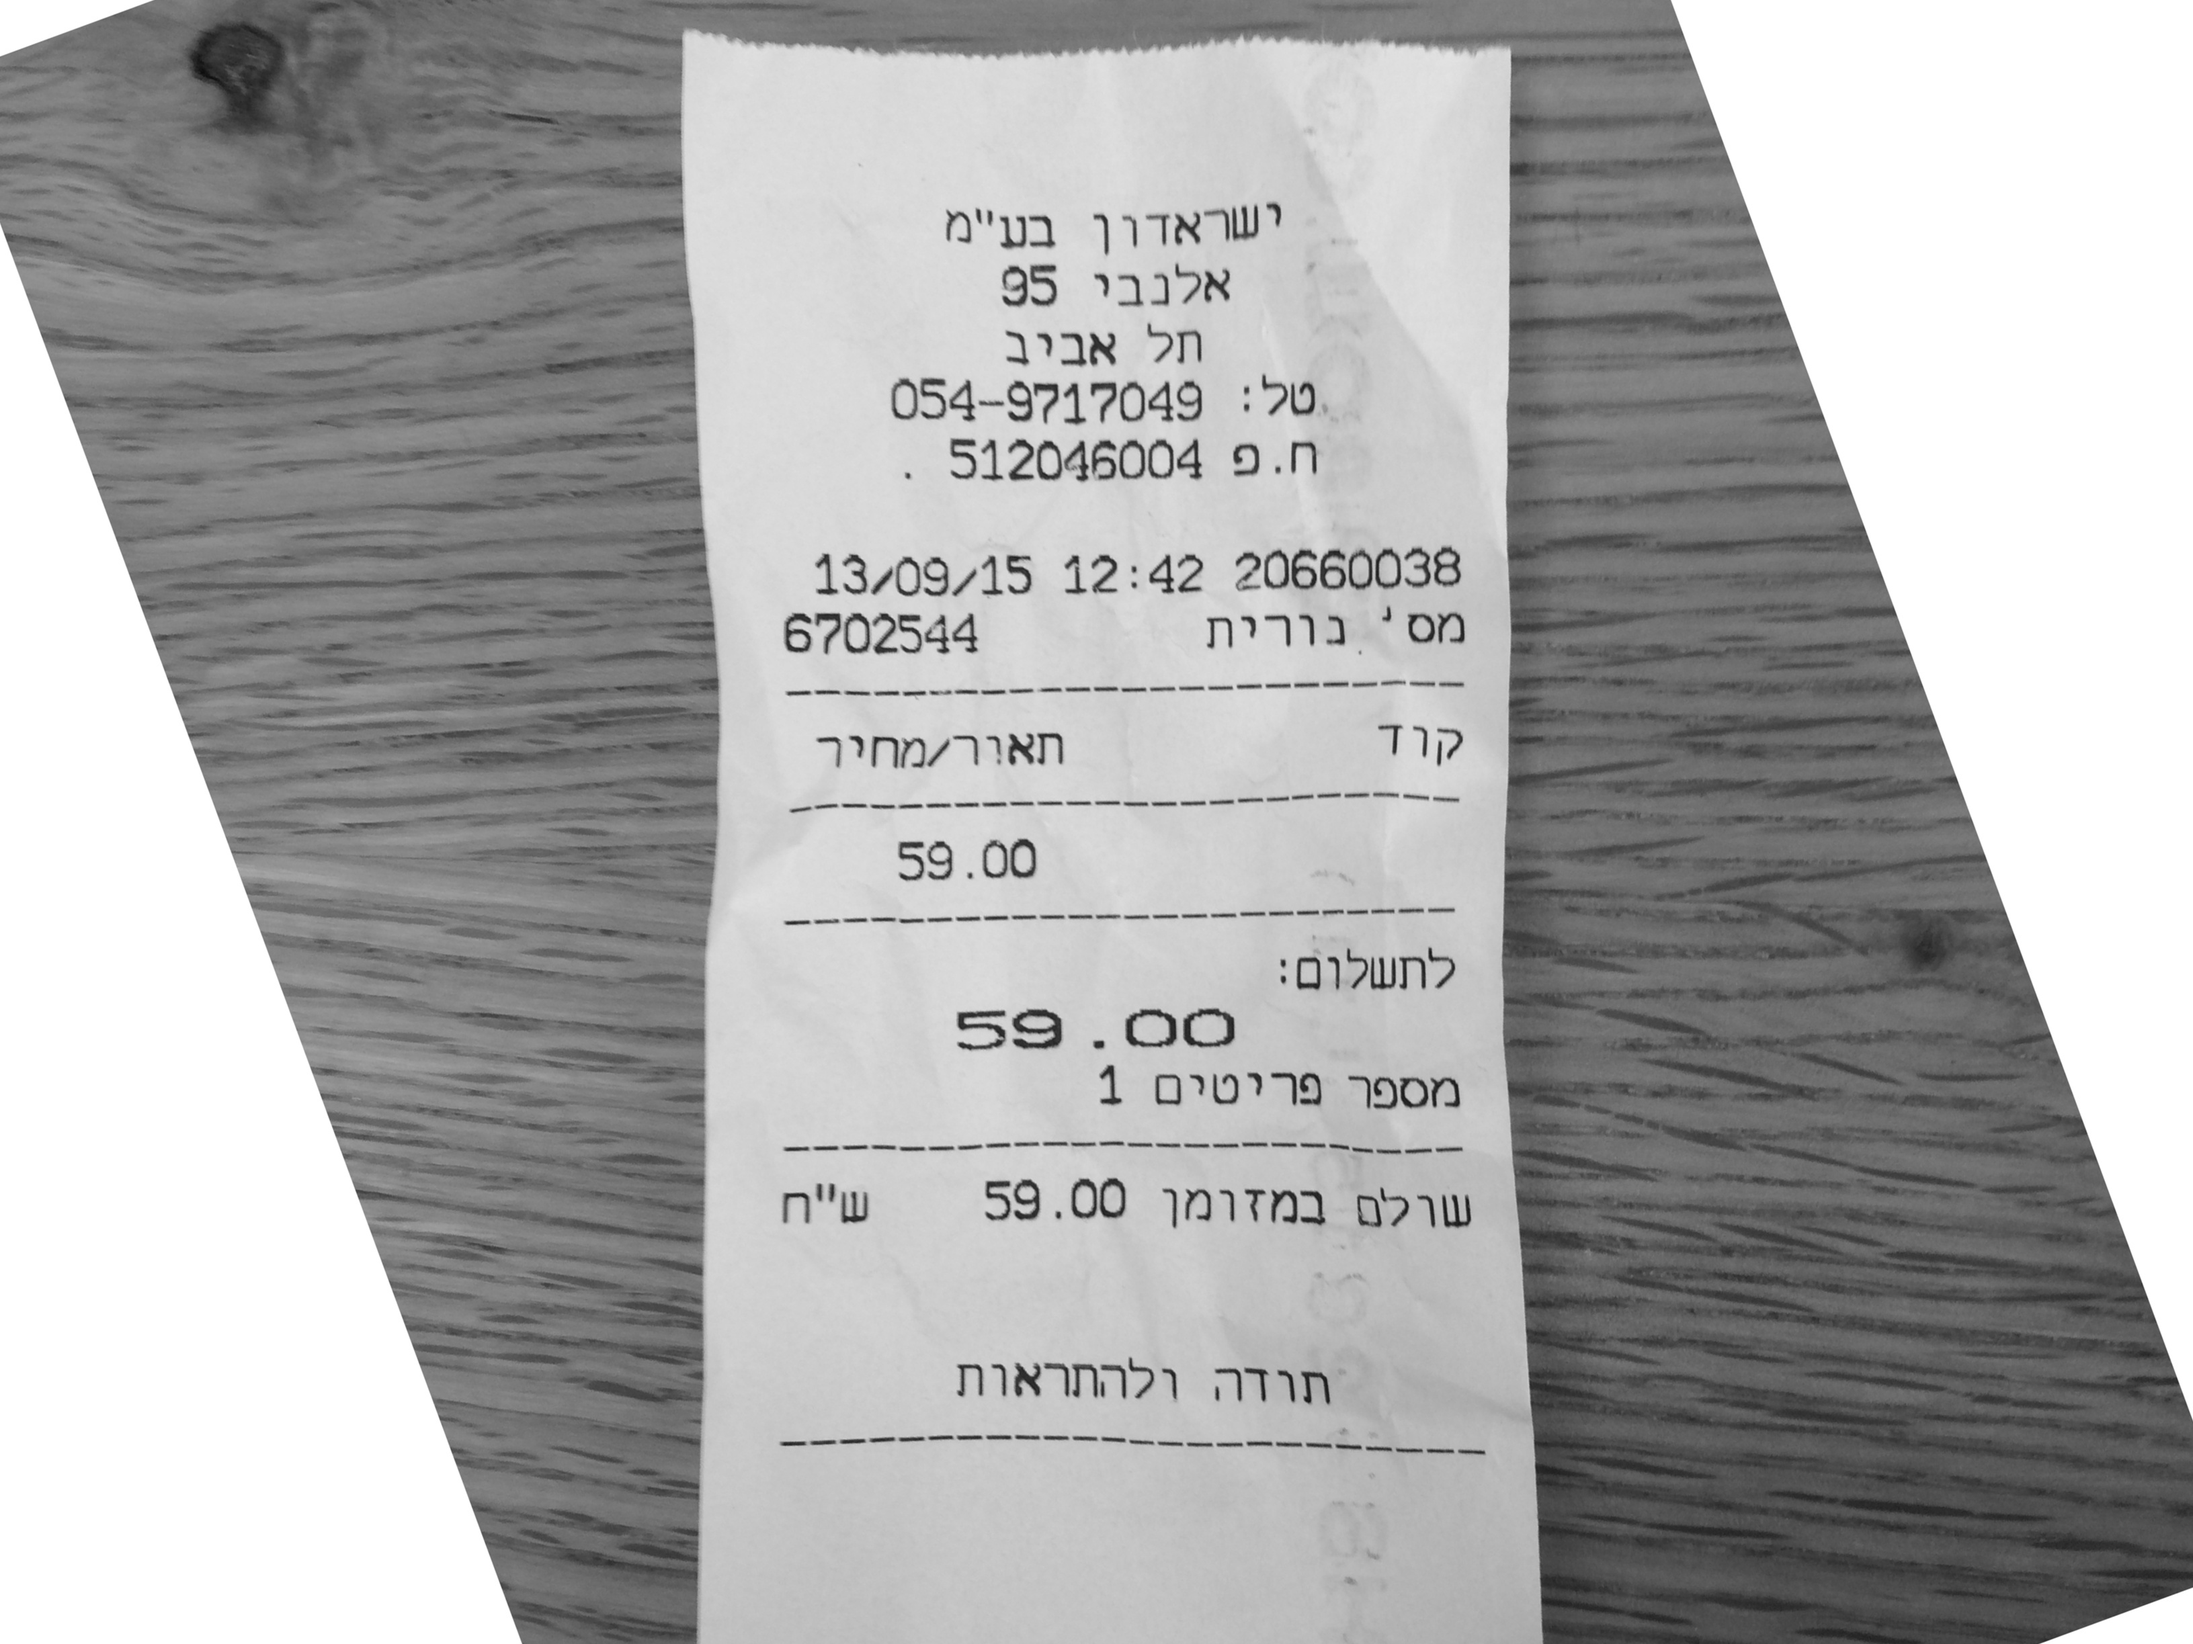
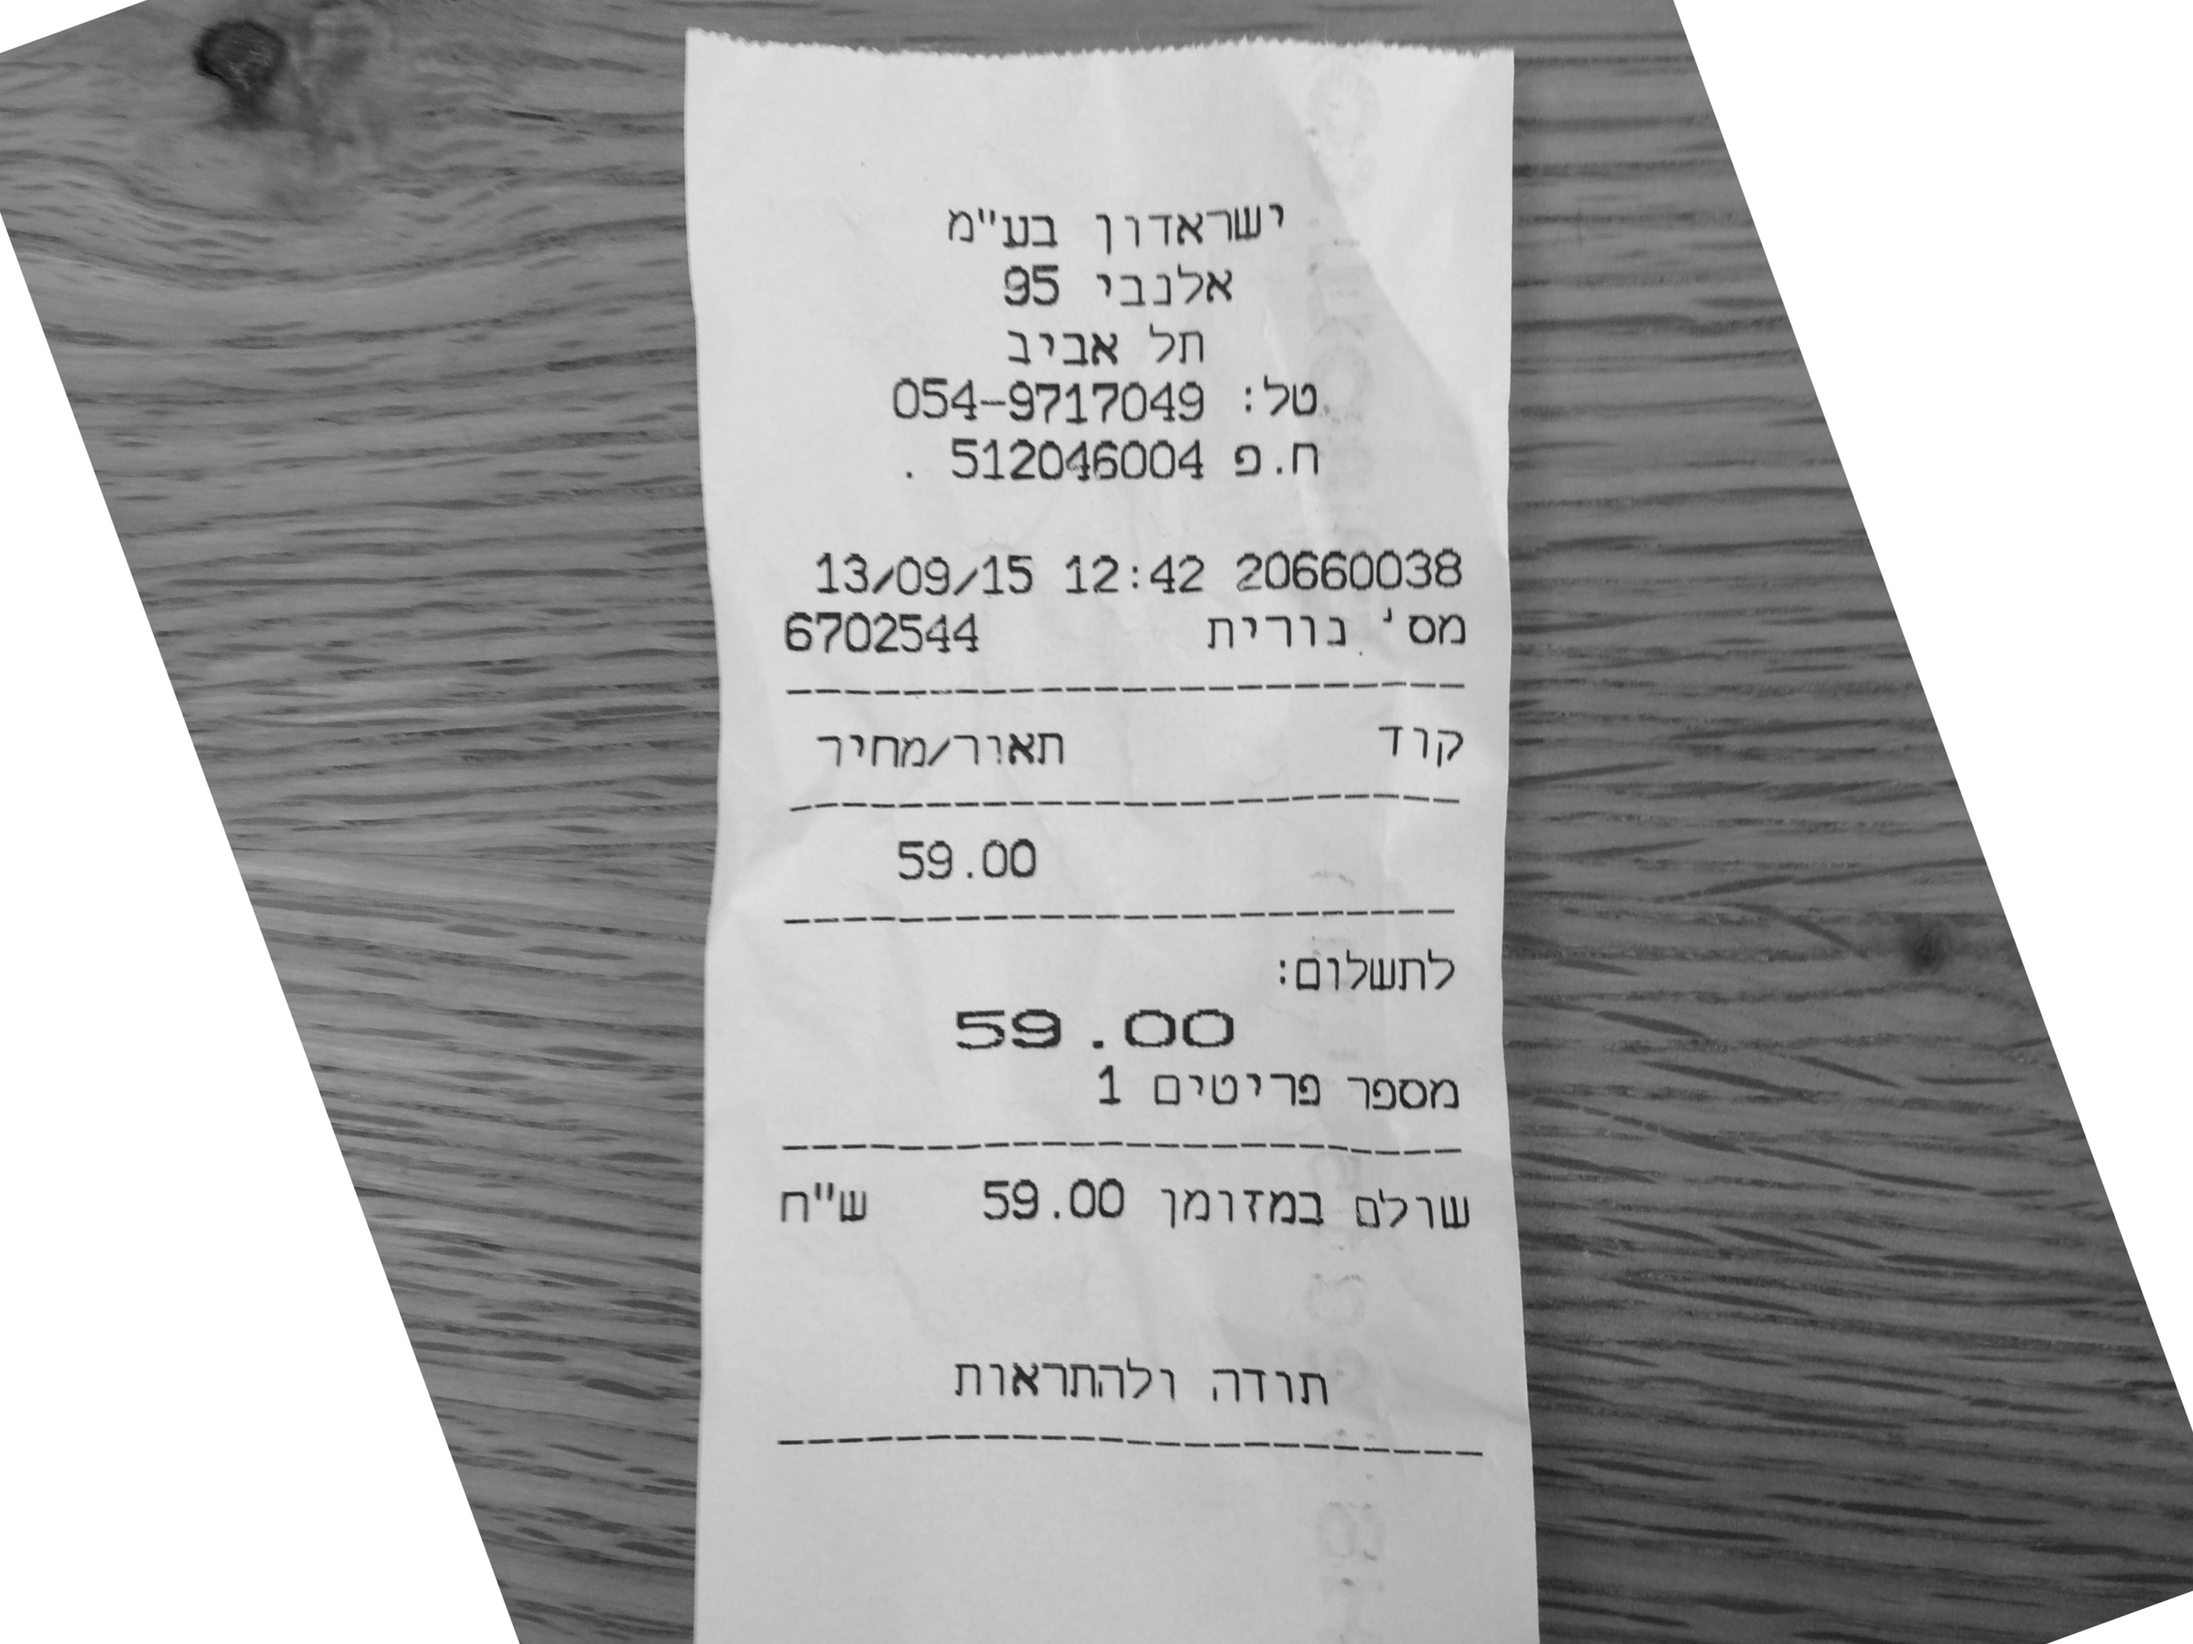
hard, but i should make it
must

may the force be with you

diff --git a/liam/mult.js b/liam/mult.js
@@ -4,7 +4,7 @@ var i, j;
 for ( i=1; i<=10; ++i ){
 
   for(j=1; j<=10; ++j){
-    
+
     process.stdout.write( i * j + '\t');
   }
 

diff --git a/ocr/skew_heb2.cc b/ocr/skew_heb2.cc
@@ -1,7 +1,5 @@
 
-// compile
-// g++ $(pkg-config --cflags --libs opencv) hough.cc -o hough && ./hough ./pics/heb.jpg
-// g++ $(pkg-config --cflags --libs opencv) hough.cc -o hough && ./hough ./pics/heb2.jpg
+// g++ $(pkg-config --cflags --libs opencv) skew_heb2.cc -o skew_heb2 && ./skew_heb2 ./pics/heb.jpg
 
 // credits: http://docs.opencv.org/doc/tutorials/imgproc/imgtrans/hough_lines/hough_lines.html
 
@@ -34,13 +32,12 @@ float get_line_len(Vec4i points){
 // nop - in degrees?
 float get_line_angle(Vec4i points){
 
-  // use Pythagorean Theorem
   int a = points[3] -  points[1];
   int b = points[2] -  points[0];
 
   // the working buggy ???
-  return atan2(a*a, b*b) *  180 / CV_PI;
-  // return atan2(a, b);
+  // return atan2(a*a, b*b) *  180 / CV_PI;
+  return atan2(a, b);
 }
 
 int main(int argc, char** argv)
@@ -57,29 +54,18 @@ int main(int argc, char** argv)
      return -1;
  }
 
+ // imwrite("./img_pre/hough.jpg", src);
+ // return 0;
+
  Mat dst, cdst;
- Canny(src, dst, 50, 200, 3);
+ Canny(src, dst, 150, 450, 3);
+ // blur(dst, dst, Size(5,5));
+
  cvtColor(dst, cdst, CV_GRAY2BGR);
 
- #if 0
-  vector<Vec2f> lines;
-  HoughLines(dst, lines, 1, CV_PI/180, 100, 0, 0 );
 
-  for( size_t i = 0; i < lines.size(); i++ )
-  {
-     float rho = lines[i][0], theta = lines[i][1];
-     Point pt1, pt2;
-     double a = cos(theta), b = sin(theta);
-     double x0 = a*rho, y0 = b*rho;
-     pt1.x = cvRound(x0 + 1000*(-b));
-     pt1.y = cvRound(y0 + 1000*(a));
-     pt2.x = cvRound(x0 - 1000*(-b));
-     pt2.y = cvRound(y0 - 1000*(a));
-     line( cdst, pt1, pt2, Scalar(0,0,255), 3, CV_AA);
-  }
- #else
   vector<Vec4i> lines;
-  HoughLinesP(dst, lines, 1, CV_PI/180, 100, 750, 100 );
+  HoughLinesP(dst, lines, 1, CV_PI/180, 100, size.width/5.7f, 100 );
 
   std::cout << "No. of lines: " << lines.size() << std::endl;
 
@@ -100,17 +86,16 @@ int main(int argc, char** argv)
     ++angle_count;
 
     std::cout << "line length is: " << line_len << std::endl;
-    // std::cout << "line angle is: " << angle2*180/CV_PI << ", " << angle2  << std::endl;
-    std::cout << "line angle is: " << angle2  << std::endl;
+    std::cout << "line angle is: " << angle2*180/CV_PI << ", " << angle2  << std::endl;
+    // std::cout << "line angle is: " << angle2  << std::endl;
   }
 
   // angle /= (angle_count/2);
   angle /= angle_count;
-  // angle *= 180/CV_PI;
+  angle *= 180/CV_PI;
 
   std::cout << "rotation is: " << angle  << std::endl;
 
- #endif
  // imshow("source", src);
  // imshow("detected lines", cdst);
   imwrite("./img_pre/hough.jpg", cdst);

diff --git a/ocr/opencv_rotate_heb.cc b/ocr/opencv_rotate_heb.cc
@@ -44,7 +44,8 @@ int main ( int argc, char** argv )
   // deskew( "./img_pre/heb.jpg", -11.3953 );
   // deskew( "./img_pre/heb.jpg", 11.3953 );
   // deskew( "./img_pre/heb.jpg", 292.0 ); /*this is working???*/
-  deskew( "./pics/heb.jpg", -69.83 );
+  // deskew( "./pics/heb.jpg", -69.83 );
+  deskew( "./pics/heb.jpg", -70.0605 );
   // deskew( "./pics/heb.jpg", 289.95 ); /*this is working???*/
   // deskew( "./img_pre/heb.jpg", 248.6047 ); /*this is working???*/
   // deskew( "./img_pre/heb.jpg", 348.6 );

diff --git a/ocr/orient_scritp_heb.cc b/ocr/orient_scritp_heb.cc
@@ -19,7 +19,7 @@ int main()
   // const char* inputfile = "./img_pre/heb2.jpg";
   // const char* inputfile = "./img_pre/heb_rot.jpg";
   // const char* inputfile = "./img_pre/heb_rot_tc.jpg";
-  const char* inputfile = "./img_pre/heb.ocv.jpg";
+  const char* inputfile = "./img_pre/heb.ocv.jpg"; /*working*/
   // const char* inputfile = "./pics/heb.jpg";
   char *outText = NULL;
   tesseract::Orientation orientation;
